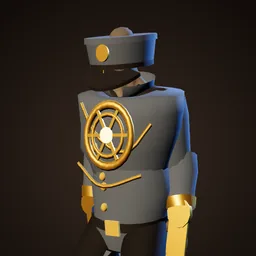
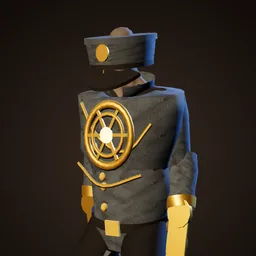
Kodex portraits re-rendered with the fur, wool and carpet maps

diff --git a/tools/enemy-sheet.ts b/tools/enemy-sheet.ts
@@ -68,6 +68,12 @@ async function portraits(): Promise<void> {
   canvas.style.display = 'none';
   const materials = new Materials(LOOK, PROFILES.qualitaet);
   const assets = await loadCharacters(materials, true);
+  // Painted kit maps (T8 fur and wool, T10 carpet) load after the first body is built: build one, then wait.
+  {
+    const sim0 = createSim({ empty: true });
+    new EnemyView(assets, materials, ENEMIES.walker.body, false).assign(spawnEnemy(sim0, 0, 0, 'walker'), false, null);
+    await new Promise((r) => setTimeout(r, Number(q.get('wait') ?? 1500)));
+  }
   const scene = new Scene();
   const fill = new HemisphereLight(0x9aa8c0, 0x2a1e14, 1.1);
   const key = new DirectionalLight(0xffd3a0, 3.6);

diff --git a/docs/local-ai-assets.md b/docs/local-ai-assets.md
@@ -171,3 +171,4 @@ Downloads, each needing Johannes' OK first: for LA2 the two Pixal3D files named 
 - ESG mural tone (Johannes 2026-11-24): not happy and colourful; dark, gritty, post-apocalyptic, politically critical. Prompt words that worked: "gritty post-apocalyptic political street mural, stencil art and expressive brush strokes, dark muted palette of grey, black, rust, dirty dark red and sickly green, heavy weathering, soot". Skip candidates with scribbled signatures, painted years or caricatured faces. [Dark set](proof/t6-murals-dark/atlas.jpg).
 - Rubble heap via W4 to W6 (2026-11-24), dropped: FLUX side view without a ground plate ("no base, no ground plate, no disc"), one view as all four, Pixal3D 700k triangles. A heap of loose pieces stalls the decimate (24k instead of 1,200): `bake_low.py --remesh 0.06` fuses it first. At 2,500 triangles it reads as a grey crumpled blob next to the code heaps of separate bricks (5× their triangles), so the code heaps stay. Image-to-3D suits solid single objects (urn), not piles of small parts. [Code vs Pixal3D](proof/rubble-glb-dropped/code-vs-pixal3d.jpg).
 - T9g posters (2026-11-24), dropped for now: FLUX.2 klein 4B repaints the code posters' lettering wrong even at denoise 0.35 (TÄGLICH → TÄBLICH, "Schall und Rauch" → "Bfall und Rauch") and barely changes the look; at 0.5 the text is nonsense. Painted posters need the code to draw the picture and the lettering separately (FLUX paints only the picture).
+- Kodex: after kit maps change (T8 fur and wool, T10 carpet), re-render the portraits with `node tools/kodex-portraits.mjs <kinds>`; the portrait sheet now builds one body and waits (`wait`, default 1500 ms) so the painted maps are in. Done 2026-11-24 for X01, X04, X05, X06, X10, X21, X28, E24 ([before and after](proof/kodex-painted-maps/before-after.jpg)).
